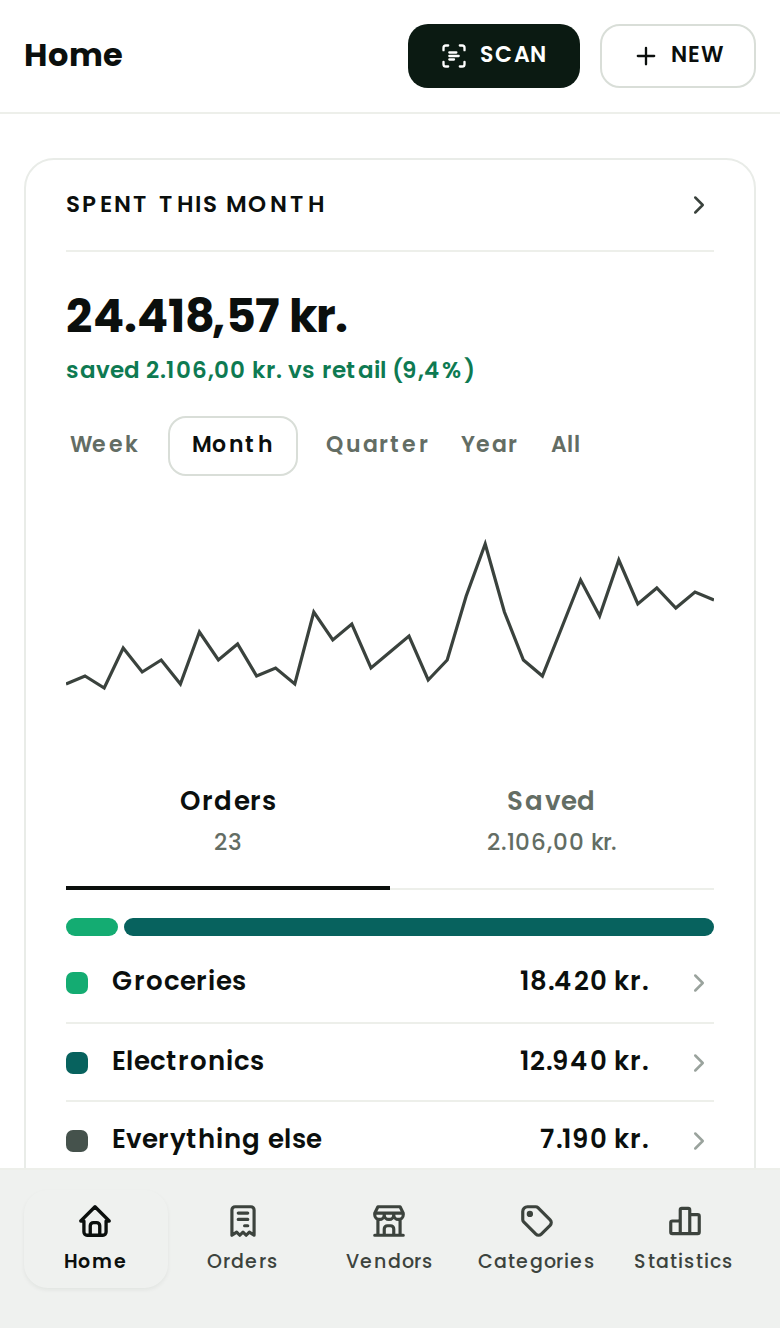
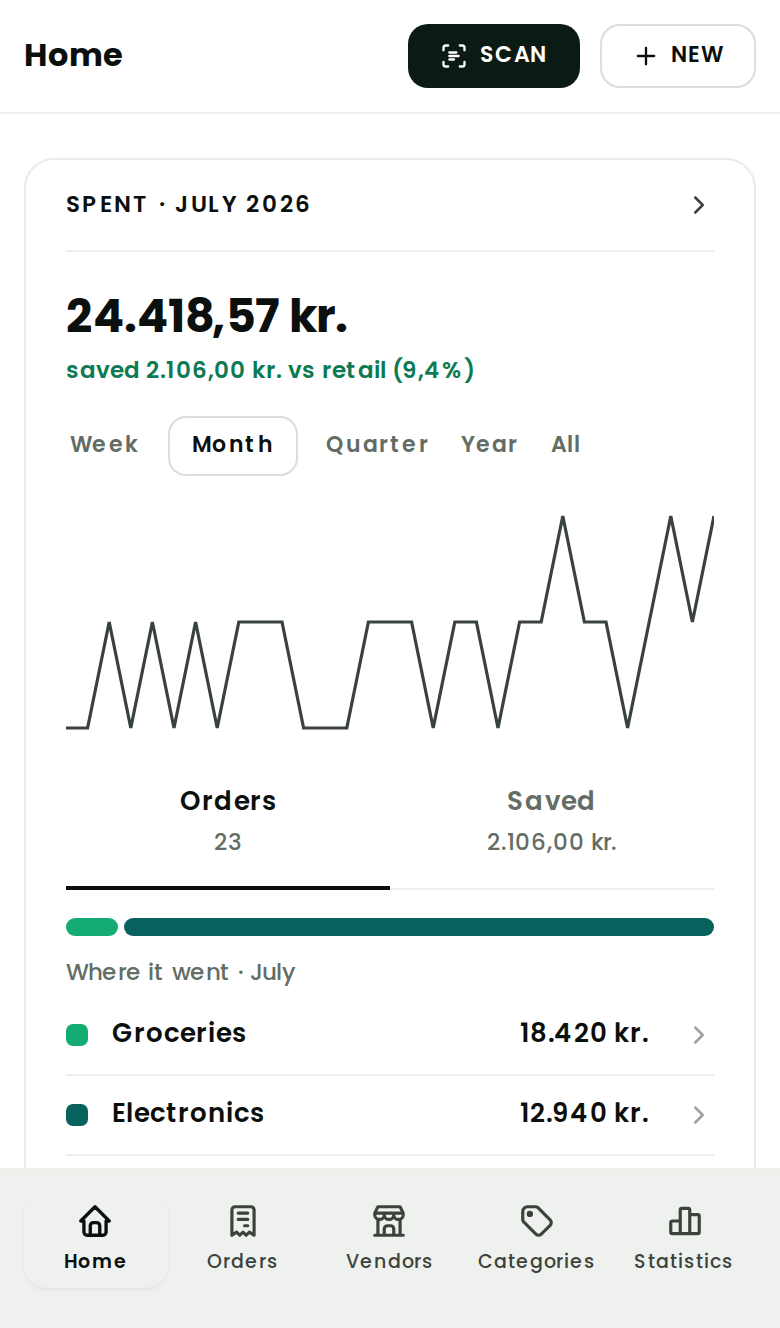
Regenerate the three screenshots against the app they document
All three files in docs/ were renders of an older app, and nothing could
say so: a screenshot cannot fail a test, and the two changes that moved
them each noted the staleness in their own entry and left the work for
later. home.png was 226,194 differing pixels of 5,184,000 (the hero card's
heading, its chart, the legend heading), phone.png 41,303 of 1,035,840 (the
same card on a phone), all-orders.png 319,255 of 5,184,000 (the finder's
COMMANDS group, "Create order with Bilka", which the file predates).

Rendered from the running app on the build these files were made on --
Chromium 141.0.7390.37 under Playwright 1.56.1 -- so what lands is the
app's drift and not another machine's text rasterisation. Each was rendered
twice and required to agree with itself at 0 differing pixels before being
written, with animations frozen, geometry settled across three frames, the
scroll offset and focus put back where a fresh load has them and the
pointer off-canvas.

all-orders.png holds three pieces of state at once and an earlier careless
run had blamed the file for 734,958 pixels of its own bad driving. Cropping
the differing box out of both files settled which it was: the orders, the
vendor row and the SEARCH ALL ORDERS footer identical and in the same
order, with one group inserted above the footer in the app and missing from
the file. The state was right; the app had gained a command.

The README gains the rule the files were missing -- that they are renders
[…]

diff --git a/docs/defects.md b/docs/defects.md
@@ -621,9 +621,10 @@ document's own `scrollWidth` cannot report an overhang) and neither viewport scr
 routes were loaded with the console listened to, after three fields left the store: **no console or page
 errors**, and no chart path drawn without a `d`.
 
-**Not rendered:** `docs/home.png` and `docs/phone.png` both hold this card, and both are stale — the
-heading, the chart's line and the new legend heading all move. Neither was regenerated here, and the
-pixel floor against the committed files was not measured. Gecko and WebKit are not installed in this
+**Not rendered here:** `docs/home.png` and `docs/phone.png` both hold this card, and this change left
+both stale — the heading, the chart's line and the new legend heading all move. They were regenerated
+later, with `all-orders.png` beside them; the numbers are in
+[Documentation](#documentation--three-committed-screenshots-had-drifted-from-the-app). Gecko and WebKit are not installed in this
 container and were not checked; the change is ordinary text and SVG with no native control, no
 shadow-DOM pseudo-element and no vendor prefix under it.
 
@@ -755,3 +756,40 @@ already records, and it is not this change: the pages this change can move are t
 **Not rendered:** Gecko and WebKit are not installed in this container and were not checked. The change
 is text, CSS box geometry and SVG, with no native control, no shadow-DOM pseudo-element and no vendor
 prefix under it.
+
+---
+
+## Documentation — three committed screenshots had drifted from the app
+
+All three files in `docs/` were renders of an older app. Nothing announced it: a screenshot cannot fail
+a test, and the two changes that moved them each said so in their own entry and left the regeneration
+for later, which is a note nobody reads at the moment it matters.
+
+Rendered from the app on the build these files were made on — Chromium **141.0.7390.37** under
+Playwright **1.56.1**, the pair that reproduces them exactly, so a regeneration here carries the app's
+drift and not a different machine's text rasterisation:
+
+| file | differing | of | what had moved |
+| --- | --- | --- | --- |
+| `home.png` | **226,194** | 5,184,000 | the hero card's heading, its chart and the legend heading under it |
+| `phone.png` | **41,303** | 1,035,840 | the same card, at `devices['iPhone 13']` |
+| `all-orders.png` | **319,255** | 5,184,000 | the finder's **COMMANDS** group — *Create order with Bilka* |
+
+The third was the one that had to be proved rather than assumed. A shot that holds three pieces of state
+at once — the FILTERS panel open, the list filtered to `?vendor=bilka&status=Delivered&from=2026-07-01&to=2026-07-31`,
+and `bil` typed into the global finder — reads as a difference whenever the harness drives any one of
+them wrong, and an earlier careless run had reported **734,958** for exactly that reason. Cropping the
+differing box out of both files settled it: the orders, the vendor row and the *SEARCH ALL ORDERS FOR
+"BIL"* footer are identical and in the same order, with one group inserted above the footer in the app
+and absent from the file. The state was right and the app had gained a command.
+
+Each file was rendered twice through the same harness and required to agree with itself at **0
+differing pixels** before being written — animations frozen, geometry settled across three frames, the
+scroll offset and focus put back where a fresh load has them, and the pointer parked off-canvas, since
+a probe that leaves any of those behind produces two runs that agree with each other and disagree with
+the file. `phone.png` is `devices['iPhone 13']` with `deviceScaleFactor` overridden to 2 at a 390x664
+viewport, which is the 780x1328 the committed file is; a bare 390x844 window renders 1170x2532 and dies
+on a size mismatch that reads as a layout change and is not one.
+
+**Not rendered:** Gecko and WebKit are not installed in this container. These files are Blink renders,
+as they have always been.

diff --git a/README.md b/README.md
@@ -758,6 +758,7 @@ Three documents, one job each — because a rule stated in two places is obeyed 
 - **This file** holds the rules, in general terms, with the reasoning beside each. It names no framework, no build tool, no storage API: those are decisions downstream of the system, and the system outlives them.
 - **[`docs/defects.md`](docs/defects.md)** holds the evidence — the defect a rule cost, the numbers that settled it, the instrument that measured it. Entries are keyed to the section they defend, by name, never to a date. It is not a changelog.
 - **[`docs/porting.md`](docs/porting.md)** holds what an implementation has to build and the traps that belong to targets rather than to the design. A port's own README documents that port.
+- **The screenshots are renders of the running app, and they are current or they are wrong.** Nothing in them is cropped by hand or touched up, and each one holds a named state — a page, a viewport, and whatever is open or typed into it. A shot that no longer matches the app is the one claim a reader believes without checking, so a change that moves one regenerates it; three of them once drifted through two changes at 226,194, 41,303 and 319,255 differing pixels ([the numbers](docs/defects.md#documentation--three-committed-screenshots-had-drifted-from-the-app)).
 
 **How a change lands:** the rule goes here, in the section that owns it; the bug and its numbers go to the defect log; anything implementation-shaped goes to the porting notes. A fix that teaches nothing writes nothing.
 
